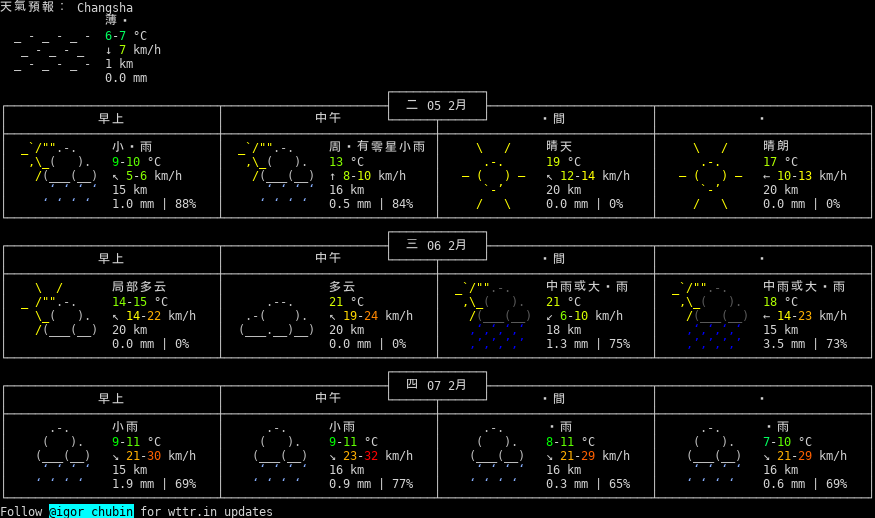
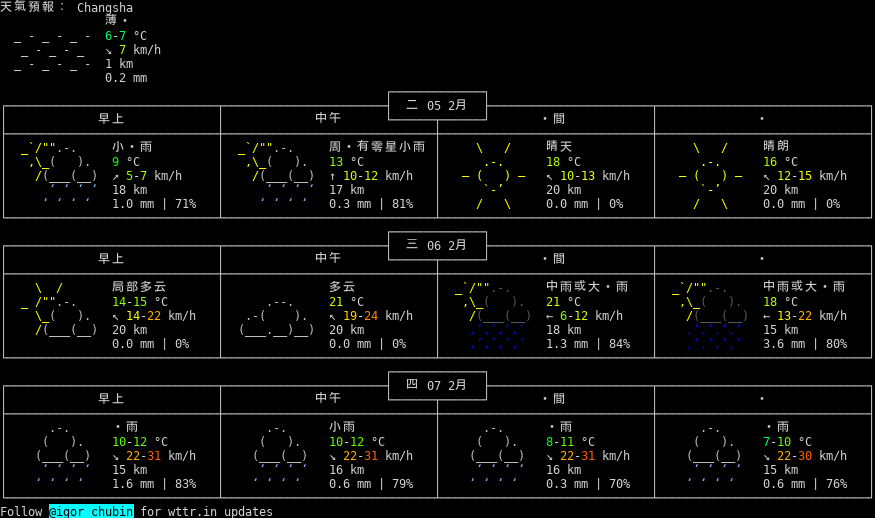
update Today's log:)

diff --git a/README.md b/README.md
@@ -6681,3 +6681,4 @@ My Shell_script learning note
 * 2019年02月05日 星期Tue AM 3:00 CST   天气: 3-7°C (Heiwajima, Japan)
 * 2019年02月05日 星期Tue AM 3:20 CST   天气: 3-7°C (Heiwajima, Japan)
 * 2019年02月05日 星期Tue AM 3:40 CST   天气: 3-7°C (Heiwajima, Japan)
+* 2019年02月05日 星期Tue AM 4:00 CST   天气: 3-7°C (Heiwajima, Japan)

diff --git a/weather.md b/weather.md
@@ -26553,3 +26553,7 @@
 
 ![](PNG/20190205.png)
 
+2019年 02月 05日
+
+![](PNG/20190205.png)
+
